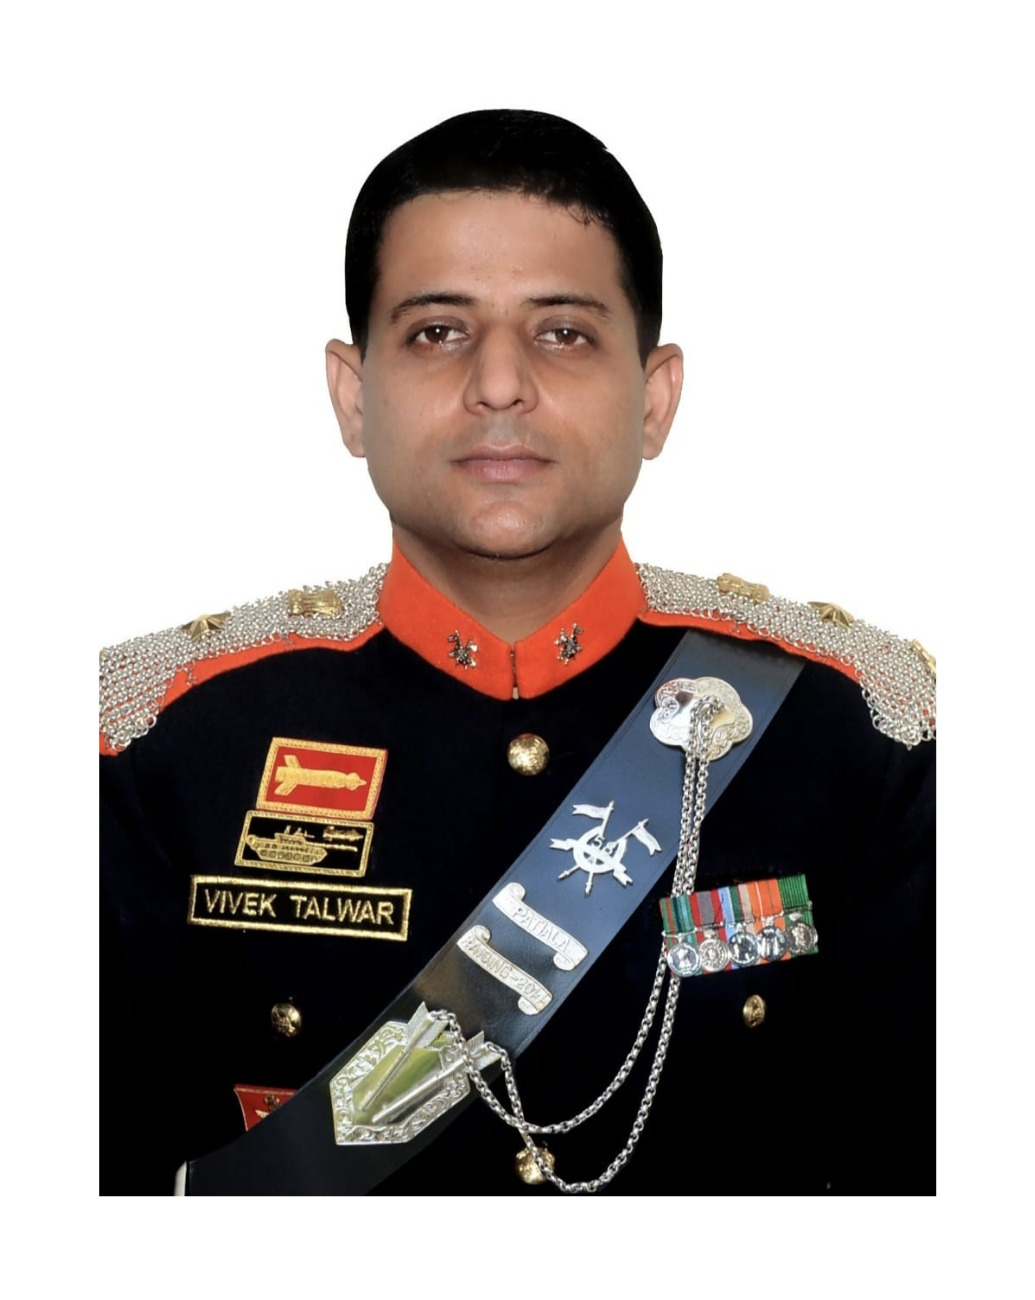
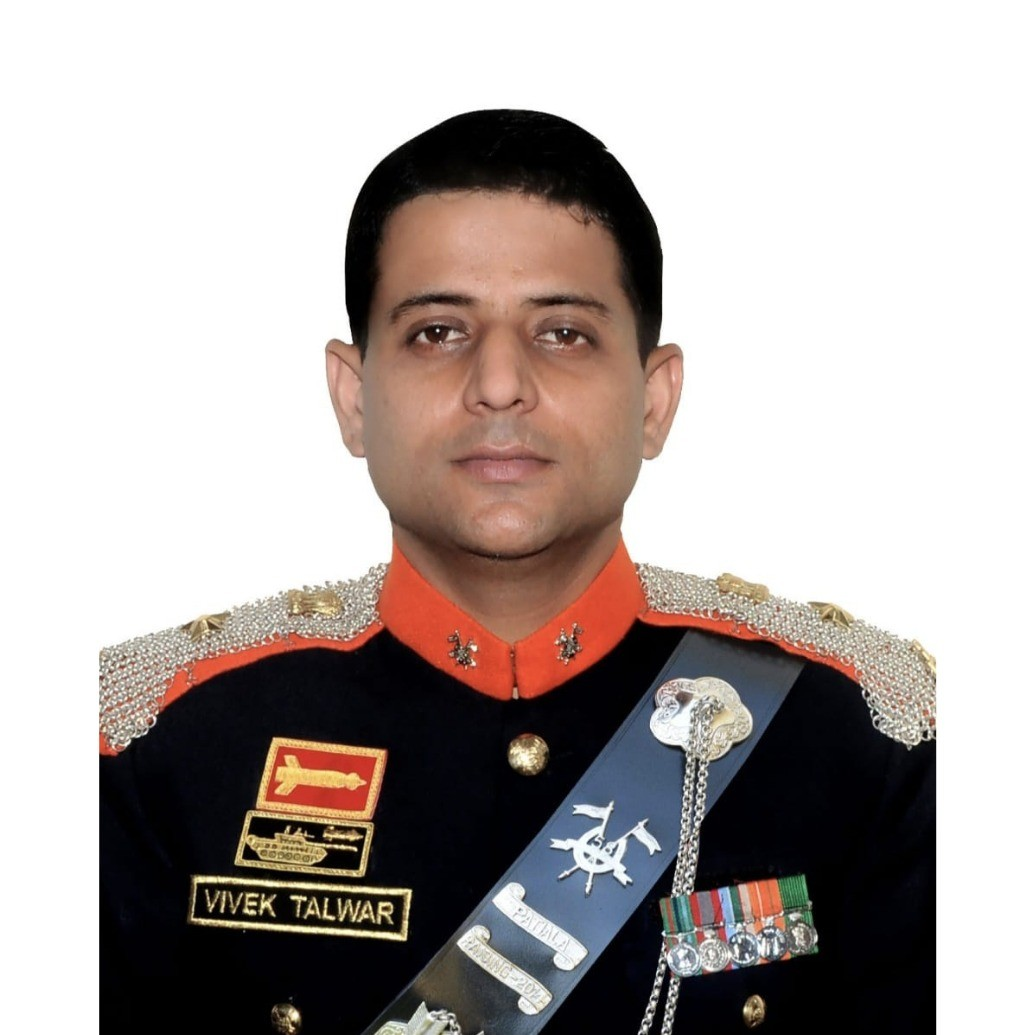
chore: update code structure for better readability and maintainability

diff --git a/src/pages/Home/UniquePedagogy.jsx b/src/pages/Home/UniquePedagogy.jsx
@@ -5,6 +5,9 @@ import styles from "../../style/UniquePedagogy.module.css";
 import HeadingTwo from "../../components/HeadingTwo";
 import { useRef, useState } from "react";
 
+import { IoVolumeMuteSharp } from "react-icons/io5";
+import { VscUnmute } from "react-icons/vsc";
+
 const UniquePedagogy = () => {
 
 
@@ -73,12 +76,14 @@ const UniquePedagogy = () => {
 
             </video>
 
-            <button className={styles.MuteBtn} onClick={() => {
-                setIsMuted(!isMuted);
-                videoRef.current.muted = !isMuted;
-            }}>
-                {isMuted ? "Unmute 🔊" : "Mute 🔇"}
-            </button>
+            <div className='d-flex justify-content-end  '>
+                <button className={styles.MuteBtn} onClick={() => {
+                    setIsMuted(!isMuted);
+                    videoRef.current.muted = !isMuted;
+                }}>
+                    {!isMuted ? <VscUnmute /> : <IoVolumeMuteSharp />}
+                </button>
+            </div>
 
             <div className={styles.KnowMoreBtn}>
                 <CustomButton text='KNOW MORE' onClick={() => navigate('/GtoTrain')} />

diff --git a/src/style/UniquePedagogy.module.css b/src/style/UniquePedagogy.module.css
@@ -69,19 +69,27 @@
 /* ================= IMAGE SECTION ================= */
 
 .imageSection {
-    
+
     width: 100%;
     /* height: 100vh; */
     /* background: url("../../public/assets/unsplash_5Mj4PO7KIFc.png") center / cover no-repeat; */
     position: relative;
 }
 
-
-.MuteBtn{
-    position: absolute;
-    bottom: 10%;
-    right: 10%;
+.MuteBtn {
+    color: var(--secondary-color);
+    font-size: 25px;
+    display: flex;
+    /* width: 100%; */
+    padding-right: 20px;
+    padding-top: 10px;
+    /* justify-content: flex-end; */
+   
 }
+
+
+
+
 
 /* DARK OVERLAY */
 

diff --git a/src/pages/Magnize.jsx b/src/pages/Magnize.jsx
@@ -101,9 +101,10 @@ function Magnize() {
 
 
     const filteredMagazines =
-        selectedTag === "all"
+        (selectedTag === "all"
             ? magazines
-            : magazines.filter((item) => item.tags === selectedTag);
+            : magazines.filter(item => item.tags === selectedTag)
+        ).sort((a, b) => new Date(b.uploadDate) - new Date(a.uploadDate));
 
 
     return (

diff --git a/src/pages/About.jsx b/src/pages/About.jsx
@@ -86,7 +86,7 @@ function About() {
         // Mentor-in-residence & Principal Insight Officer
         {
             id: "member-2",
-            image: "/assets/vivek.jpeg",
+            image: "/assets/1.jpeg",
             designation: "Mentor-in-residence & Principal Insight Officer",
             name: "Lt Colonel Vivek Talwar (Retd.)",
             sections: [
